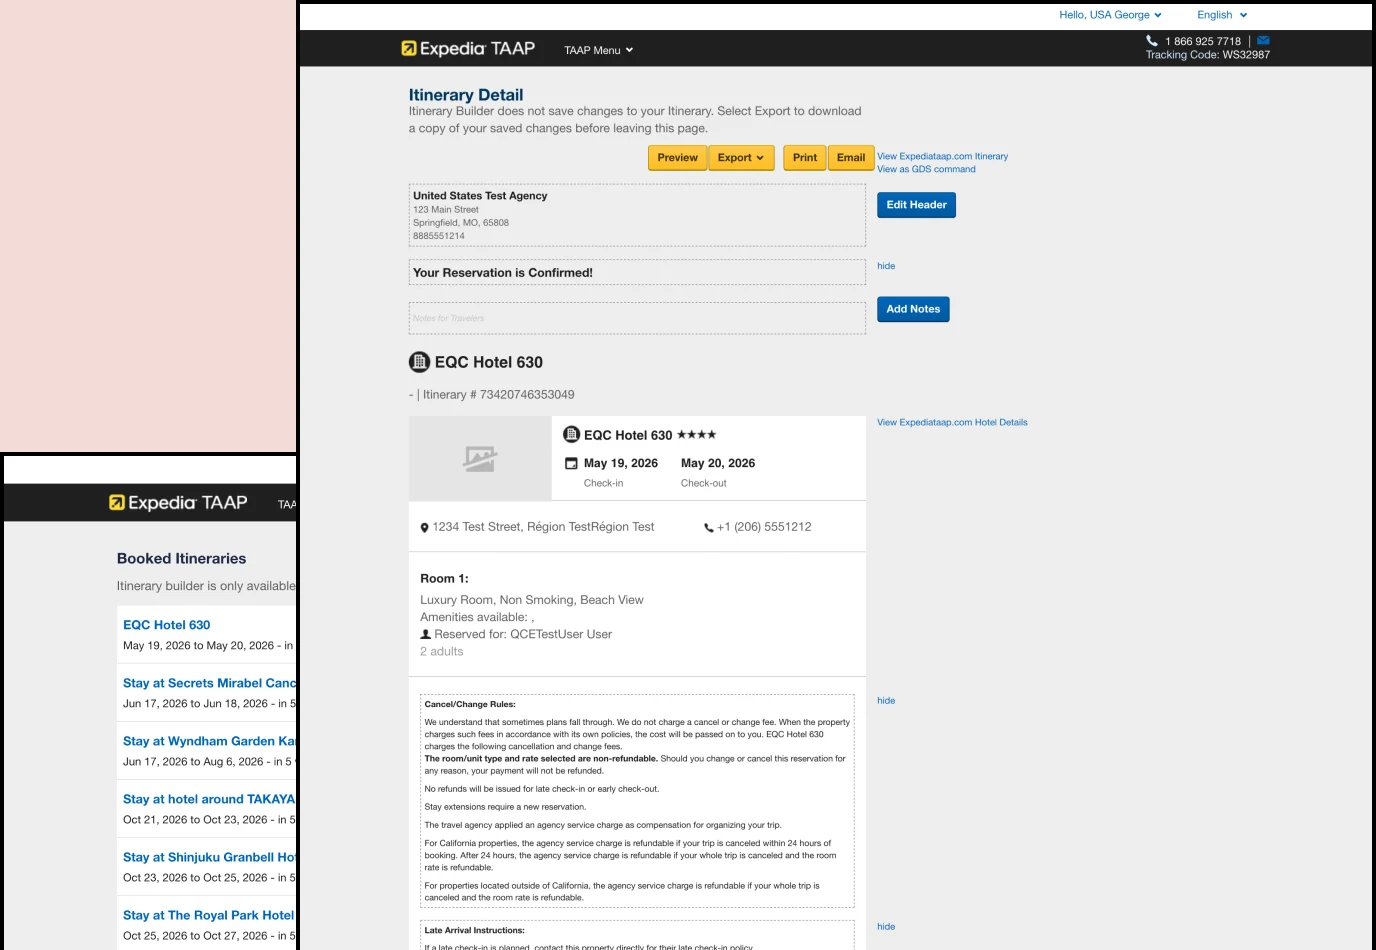
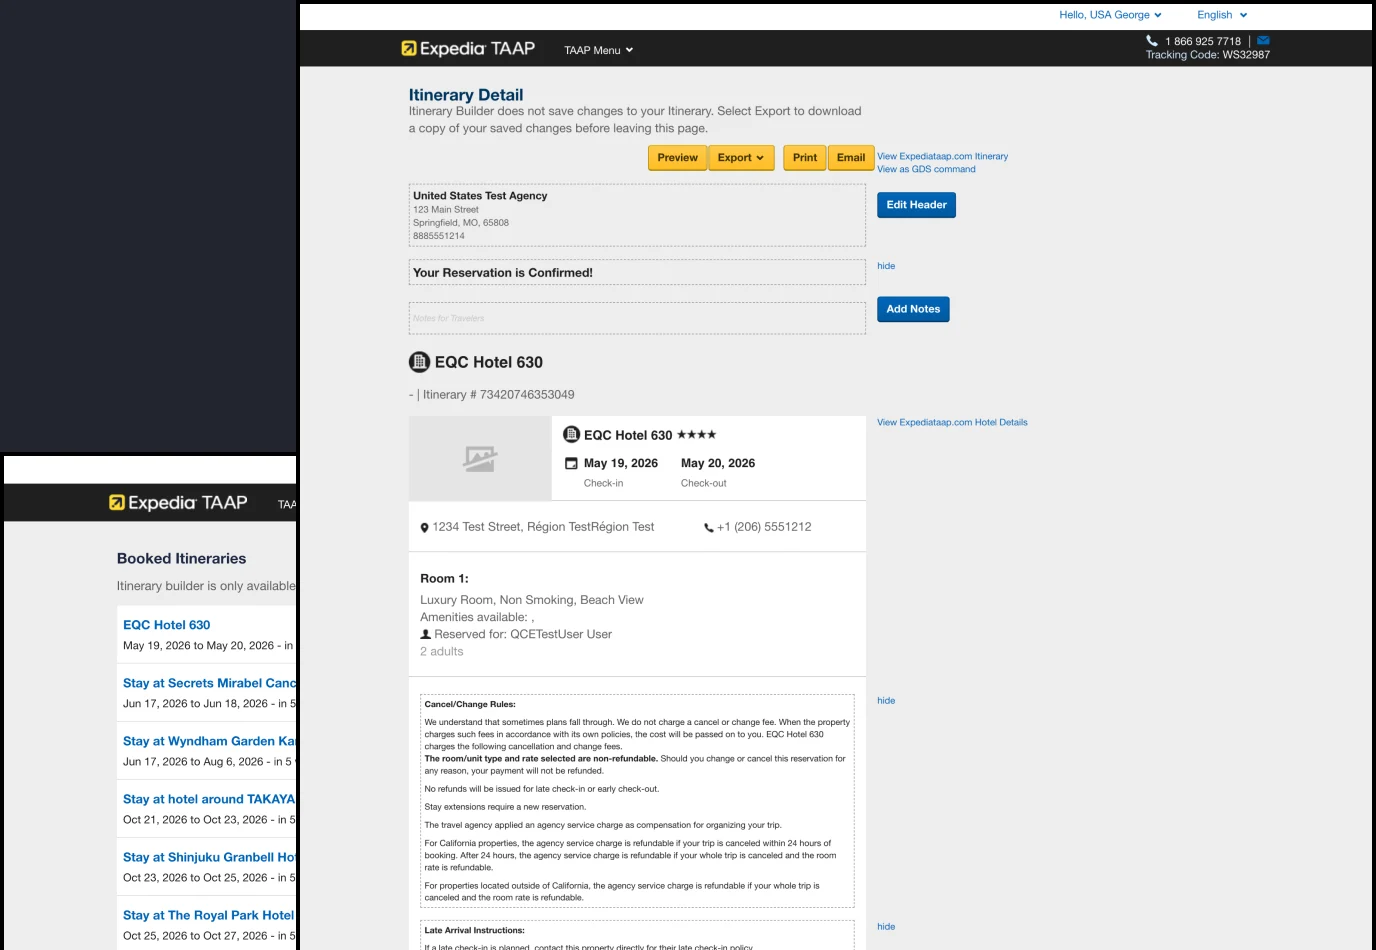
Lock the site to dark mode and quiet the surfaces
Dark is now the only theme: :root carries the one palette, <html> ships a
static dark class, and the toggle, theme.ts and the localStorage boot script
are gone. This also removes the flash of wrong theme at load and works with
JS disabled.

Quiet the surfaces that were tuned for a light background:

- Horizontal rules move off --ink (near-white) onto a new --rule token at 12%,
  matching the top bar's existing hairlines.
- Screenshot mats move onto a shared --mat token. The five hardcoded hex
  wrappers now use it, and the four Itinerary images are recoloured to match
  so the image and its wrapper read as one panel.

Case study pages end in a plain list of the other three studies instead of
large thumbnails, and the list now compares paths with trailing slashes
normalised so the current study is actually excluded in the static export.

Drop the show/hide bullet from the Itinerary results list.

scripts/rebuild-image-mats.mjs recolours the mats from the archived source
art. The remaining TAAP, REACH.ai and Booking images still carry their
original colours.

Changed region(s): [[0.0, 0.0, 0.2188, 0.4884]]

diff --git a/src/components/CaseStudyExplorer.tsx b/src/components/CaseStudyExplorer.tsx
@@ -1,21 +1,31 @@
 "use client";
 
-import Image from "next/image";
 import Link from "next/link";
 import { usePathname } from "next/navigation";
 import { useId } from "react";
+import { ArrowRightIcon } from "@/components/Icons";
 import { caseStudies } from "@/lib/site";
 
-const fade = "transition-opacity duration-200 ease-out hover:opacity-80";
+const fade = "transition-opacity duration-200 ease-out hover:opacity-60";
+
+/** Static export serves trailing-slash URLs; hrefs in site.ts have none. */
+function samePath(a: string, b: string) {
+  const trim = (v: string) => (v.length > 1 ? v.replace(/\/+$/, "") : v);
+  return trim(a) === trim(b);
+}
 
 export function CaseStudyExplorer() {
   const pathname = usePathname();
   const groupId = useId();
 
+  // On a case study page this leaves the other three; elsewhere, all of them.
+  const others = caseStudies.filter((study) => !samePath(study.href, pathname));
+  if (others.length === 0) return null;
+
   return (
     <section
       aria-labelledby={`${groupId}-heading`}
-      className="flex w-full flex-col gap-8 pb-16 sm:gap-10 sm:pb-20"
+      className="flex w-full flex-col gap-6 pb-16 sm:gap-8 sm:pb-20"
     >
       <div className="flex flex-col gap-3">
         <p className="font-extrabold text-xs uppercase leading-none text-accent">
@@ -26,48 +36,27 @@ export function CaseStudyExplorer() {
           className="font-extrabold text-[28px] leading-9 tracking-[-0.7px] text-ink sm:text-[36px] sm:leading-[48px] sm:tracking-[-0.9px]"
           style={{ fontFeatureSettings: '"liga" 0' }}
         >
-          My work
+          More work
         </h2>
       </div>
 
-      <ul className="flex w-full flex-col gap-8 sm:gap-10">
-        {caseStudies.map((study) => {
-          const current = pathname === study.href;
-          return (
-            <li key={study.href}>
-              <Link
-                href={study.href}
-                aria-current={current ? "page" : undefined}
-                className={`group flex flex-col overflow-hidden bg-panel-dark ${current ? "opacity-60" : fade}`}
+      <ul className="flex w-full flex-col">
+        {others.map((study) => (
+          <li key={study.href}>
+            <Link
+              href={study.href}
+              className={`group flex items-center justify-between gap-6 border-b border-rule py-4 sm:py-5 ${fade}`}
+            >
+              <span
+                className="font-extrabold text-lg leading-6 tracking-[-0.36px] text-ink sm:text-[28px] sm:leading-9 sm:tracking-[-0.56px]"
+                style={{ fontFeatureSettings: '"liga" 0' }}
               >
-                <span className="relative block aspect-[16/9] w-full overflow-hidden bg-panel-dark sm:aspect-[2/1]">
-                  <Image
-                    src={study.thumb}
-                    alt=""
-                    fill
-                    className="object-cover object-top transition-transform duration-300 ease-out group-hover:scale-[1.02]"
-                    sizes="(min-width: 1024px) 980px, calc(100vw - 40px)"
-                    unoptimized
-                  />
-                </span>
-                <div className="flex flex-col gap-3 px-6 py-6 sm:gap-4 sm:px-8 sm:py-8">
-                  <p
-                    className="font-extrabold text-2xl leading-8 tracking-[-0.48px] text-secondary-600 sm:text-[28px] sm:leading-9 sm:tracking-[-0.56px]"
-                    style={{ fontFeatureSettings: '"liga" 0' }}
-                  >
-                    {study.title}
-                  </p>
-                  <p
-                    className="max-w-[640px] text-base leading-7 text-white"
-                    style={{ fontFeatureSettings: '"liga" 0' }}
-                  >
-                    {study.description}
-                  </p>
-                </div>
-              </Link>
-            </li>
-          );
-        })}
+                {study.title}
+              </span>
+              <ArrowRightIcon className="size-6 shrink-0 text-ink transition-transform duration-200 ease-out group-hover:translate-x-1 motion-reduce:transition-none" />
+            </Link>
+          </li>
+        ))}
       </ul>
     </section>
   );

diff --git a/src/components/Icons.tsx b/src/components/Icons.tsx
@@ -74,39 +74,3 @@ export function ArrowUpIcon({ className }: IconProps) {
     </svg>
   );
 }
-
-export function MoonIcon({ className }: IconProps) {
-  return (
-    <svg
-      width="24"
-      height="24"
-      viewBox="0 0 24 24"
-      fill="none"
-      aria-hidden="true"
-      className={className}
-    >
-      <path
-        d="M12 21C9.5 21 7.375 20.125 5.625 18.375C3.875 16.625 3 14.5 3 12C3 9.5 3.875 7.375 5.625 5.625C7.375 3.875 9.5 3 12 3C12.2333 3 12.4625 3.0125 12.6875 3.0375C12.9125 3.0625 13.1333 3.1 13.35 3.15C12.6667 3.96667 12.1458 4.89583 11.7875 5.9375C11.4292 6.97917 11.25 8.08333 11.25 9.25C11.25 11.5833 12.0625 13.5625 13.6875 15.1875C15.3125 16.8125 17.2917 17.625 19.625 17.625C20.1417 17.625 20.6458 17.5792 21.1375 17.4875C21.6292 17.3958 22.1 17.25 22.55 17.05C22.0167 18.8167 21.0292 20.2708 19.5875 21.4125C18.1458 22.5542 16.5 23.1917 14.65 23.325C14.1 23.375 13.55 23.4 13 23.4C12.6667 23.4 12.3333 23.3833 12 23.35V21Z"
-        fill="currentColor"
-      />
-    </svg>
-  );
-}
-
-export function SunIcon({ className }: IconProps) {
-  return (
-    <svg
-      width="24"
-      height="24"
-      viewBox="0 0 24 24"
-      fill="none"
-      aria-hidden="true"
-      className={className}
-    >
-      <path
-        d="M12 17C10.6167 17 9.4375 16.5125 8.4625 15.5375C7.4875 14.5625 7 13.3833 7 12C7 10.6167 7.4875 9.4375 8.4625 8.4625C9.4375 7.4875 10.6167 7 12 7C13.3833 7 14.5625 7.4875 15.5375 8.4625C16.5125 9.4375 17 10.6167 17 12C17 13.3833 16.5125 14.5625 15.5375 15.5375C14.5625 16.5125 13.3833 17 12 17ZM12 15C12.8333 15 13.5417 14.7083 14.125 14.125C14.7083 13.5417 15 12.8333 15 12C15 11.1667 14.7083 10.4583 14.125 9.875C13.5417 9.29167 12.8333 9 12 9C11.1667 9 10.4583 9.29167 9.875 9.875C9.29167 10.4583 9 11.1667 9 12C9 12.8333 9.29167 13.5417 9.875 14.125C10.4583 14.7083 11.1667 15 12 15ZM1 13V11H4V13H1ZM20 13V11H23V13H20ZM11 4V1H13V4H11ZM11 23V20H13V23H11ZM4.925 6.35L3.525 4.925L4.925 3.525L6.35 4.925L4.925 6.35ZM17.65 19.075L16.25 17.65L17.65 16.25L19.075 17.65L17.65 19.075ZM16.25 6.35L17.65 4.925L19.075 6.35L17.65 7.75L16.25 6.35ZM3.525 19.075L4.925 17.65L6.35 19.075L4.925 20.475L3.525 19.075Z"
-        fill="currentColor"
-      />
-    </svg>
-  );
-}

diff --git a/src/app/globals.css b/src/app/globals.css
@@ -3,27 +3,6 @@
 @custom-variant dark (&:where(.dark, .dark *));
 
 :root {
-  --background: #faf9f5;
-  --foreground: #090e1a;
-  --accent: #ff5a5f;
-  --neutral-900: #111827;
-  --neutral-600: #4b5563;
-  --primary-600: #5e3bee;
-  --primary-100: #dfd8fc;
-  --ink: #090e1a;
-  --surface: #ffffff;
-  --surface-muted: #f3f1eb;
-  --border: rgba(9, 14, 26, 0.14);
-  --footer-bg: #090e1a;
-  --footer-fg: #ffffff;
-  --footer-muted: #dfd8fc;
-  --footer-border: rgba(255, 255, 255, 0.15);
-  --panel-dark: #111827;
-  --secondary-600: #58c2a2;
-  color-scheme: light;
-}
-
-html.dark {
   --background: #12141c;
   --foreground: #f4f1ea;
   --accent: #ff8a8e;
@@ -35,6 +14,10 @@ html.dark {
   --surface: #1a1e2a;
   --surface-muted: #232838;
   --border: rgba(244, 241, 234, 0.18);
+  /* Horizontal rules: low-contrast, sits just above the background. */
+  --rule: rgba(244, 241, 234, 0.12);
+  /* Neutral mat behind screenshots. Must match MAT in scripts/rebuild-image-mats.mjs. */
+  --mat: #21252e;
   --footer-bg: #faf9f5;
   --footer-fg: #090e1a;
   --footer-muted: #5e3bee;
@@ -56,6 +39,8 @@ html.dark {
   --color-surface: var(--surface);
   --color-surface-muted: var(--surface-muted);
   --color-border: var(--border);
+  --color-rule: var(--rule);
+  --color-mat: var(--mat);
   --color-footer-bg: var(--footer-bg);
   --color-footer-fg: var(--footer-fg);
   --color-footer-muted: var(--footer-muted);

diff --git a/src/components/taap/TaapGen1Block.tsx b/src/components/taap/TaapGen1Block.tsx
@@ -19,7 +19,7 @@ export function TaapGen1Block() {
         className="w-full max-w-[620px] lg:max-w-full"
       />
 
-      <div className="flex w-full min-w-0 max-w-[620px] flex-col-reverse items-center gap-10 overflow-hidden rounded-none bg-[#ccdff4] px-6 pt-8 sm:px-10 sm:pt-16 lg:max-w-full lg:flex-row lg:items-start lg:justify-center lg:gap-10 lg:px-10">
+      <div className="flex w-full min-w-0 max-w-[620px] flex-col-reverse items-center gap-10 overflow-hidden rounded-none bg-mat px-6 pt-8 sm:px-10 sm:pt-16 lg:max-w-full lg:flex-row lg:items-start lg:justify-center lg:gap-10 lg:px-10">
         <div className="flex w-full min-w-0 flex-col items-start gap-4 pb-8 sm:pb-10 lg:max-w-[375px] lg:flex-none lg:pb-0">
           <h3
             className="w-full font-extrabold text-2xl leading-8 text-ink sm:text-[30px] sm:leading-10"

diff --git a/src/app/layout.tsx b/src/app/layout.tsx
@@ -1,7 +1,6 @@
 import type { Metadata } from "next";
 import { Inter } from "next/font/google";
 import { CaseStudyShell } from "@/components/CaseStudyShell";
-import { themeBootScript } from "@/lib/theme";
 import "./globals.css";
 
 const inter = Inter({
@@ -18,14 +17,7 @@ export const metadata: Metadata = {
 
 export default function RootLayout({ children }: LayoutProps<"/">) {
   return (
-    <html
-      lang="en"
-      className={`${inter.variable} h-full antialiased`}
-      suppressHydrationWarning
-    >
-      <head>
-        <script dangerouslySetInnerHTML={{ __html: themeBootScript }} />
-      </head>
+    <html lang="en" className={`dark ${inter.variable} h-full antialiased`}>
       <body className="min-h-full bg-background text-ink">
         <CaseStudyShell>{children}</CaseStudyShell>
       </body>

diff --git a/src/components/itinerary/ItineraryChallengeBlock.tsx b/src/components/itinerary/ItineraryChallengeBlock.tsx
@@ -20,7 +20,7 @@ export function ItineraryChallengeBlock() {
         className="w-full max-w-[620px] pb-10 lg:max-w-full"
       />
 
-      <div className="flex w-full min-w-0 max-w-[620px] flex-col items-center gap-10 overflow-hidden rounded-none bg-[#f4dbd7] px-6 pt-8 sm:px-10 sm:pt-16 lg:max-w-full lg:flex-row lg:items-start lg:justify-center lg:gap-10 lg:px-10">
+      <div className="flex w-full min-w-0 max-w-[620px] flex-col items-center gap-10 overflow-hidden rounded-none bg-mat px-6 pt-8 sm:px-10 sm:pt-16 lg:max-w-full lg:flex-row lg:items-start lg:justify-center lg:gap-10 lg:px-10">
         <div className="relative aspect-[688/475] w-full min-w-0 overflow-hidden rounded-none lg:max-w-[688px] lg:flex-1">
           <Image
             src="/images/itinerary/challenge-shot.webp"

diff --git a/src/components/taap/TaapOriginsBlock.tsx b/src/components/taap/TaapOriginsBlock.tsx
@@ -20,7 +20,7 @@ export function TaapOriginsBlock() {
         className="w-full max-w-[620px] pb-6 lg:max-w-full"
       />
 
-      <div className="flex w-full min-w-0 max-w-[620px] flex-col items-center gap-10 overflow-hidden rounded-none bg-[#f4dbd7] px-6 pt-8 sm:px-10 sm:pt-16 lg:max-w-full lg:flex-row lg:items-end lg:justify-center lg:gap-10 lg:px-10">
+      <div className="flex w-full min-w-0 max-w-[620px] flex-col items-center gap-10 overflow-hidden rounded-none bg-mat px-6 pt-8 sm:px-10 sm:pt-16 lg:max-w-full lg:flex-row lg:items-end lg:justify-center lg:gap-10 lg:px-10">
         <div className="relative aspect-[733/489] w-full min-w-0 overflow-hidden rounded-none lg:max-w-[733px] lg:flex-1">
           <Image
             src="/images/taap/origins-shot.webp"

diff --git a/src/components/EvaluateBlock.tsx b/src/components/EvaluateBlock.tsx
@@ -39,7 +39,7 @@ export function EvaluateBlock() {
         className="w-full max-w-[620px] lg:max-w-full"
       />
 
-      <div className="flex w-full max-w-[620px] flex-col items-center gap-10 overflow-hidden bg-[#b6cfed] px-6 pt-16 sm:px-10 lg:max-w-full lg:flex-row lg:items-start lg:justify-center lg:gap-10 lg:px-10 lg:pt-20">
+      <div className="flex w-full max-w-[620px] flex-col items-center gap-10 overflow-hidden bg-mat px-6 pt-16 sm:px-10 lg:max-w-full lg:flex-row lg:items-start lg:justify-center lg:gap-10 lg:px-10 lg:pt-20">
         <div className="w-full min-w-0 lg:max-w-[647px] lg:flex-1">
           <Image
             src="/images/reach/evaluate-shot.webp"

diff --git a/src/components/TopBar.tsx b/src/components/TopBar.tsx
@@ -4,7 +4,6 @@ import Link from "next/link";
 import { usePathname } from "next/navigation";
 import { useEffect, useId, useRef, useState } from "react";
 import { CloseIcon, MenuIcon } from "@/components/Icons";
-import { ThemeToggle } from "@/components/ThemeToggle";
 import { caseStudies, navLinks } from "@/lib/site";
 
 const fade = "transition-opacity duration-200 ease-out hover:opacity-60";
@@ -220,7 +219,6 @@ export function TopBar() {
                 );
               })}
             </nav>
-            <ThemeToggle />
             <button
               ref={menuButtonRef}
               type="button"

diff --git a/src/components/DesignBlock.tsx b/src/components/DesignBlock.tsx
@@ -45,7 +45,7 @@ export function DesignBlock() {
         className="w-full max-w-[620px] lg:max-w-full"
       />
 
-      <div className="flex w-full min-w-0 max-w-[620px] flex-col items-center gap-16 overflow-hidden rounded-none bg-[#9dd2bf] pt-16 lg:max-w-full">
+      <div className="flex w-full min-w-0 max-w-[620px] flex-col items-center gap-16 overflow-hidden rounded-none bg-mat pt-16 lg:max-w-full">
         {visuals.map((visual) => (
           <Image
             key={visual.src}

diff --git a/src/components/itinerary/ItineraryResultsBlock.tsx b/src/components/itinerary/ItineraryResultsBlock.tsx
@@ -4,7 +4,6 @@ import { TaapCheckItem, TaapClockItem } from "@/components/taap/TaapListItems";
 const shipped = [
   "Preview and Share with Traveler consistently discovered and used correctly",
   "Layout rated clean and professional by all 6 participants",
-  "Show/hide section controls rated highly valuable for customisation",
   "Fully accessible dev handoff delivered with WCAG annotations",
 ] as const;
 

diff --git a/src/components/Divider.tsx b/src/components/Divider.tsx
@@ -11,7 +11,7 @@ export function Divider({
 }: DividerProps) {
   const line = (
     <div
-      className={`w-full bg-ink ${thin ? "h-px" : "h-0.5"} ${padded ? "" : className}`}
+      className={`w-full bg-rule ${thin ? "h-px" : "h-0.5"} ${padded ? "" : className}`}
       aria-hidden
     />
   );
